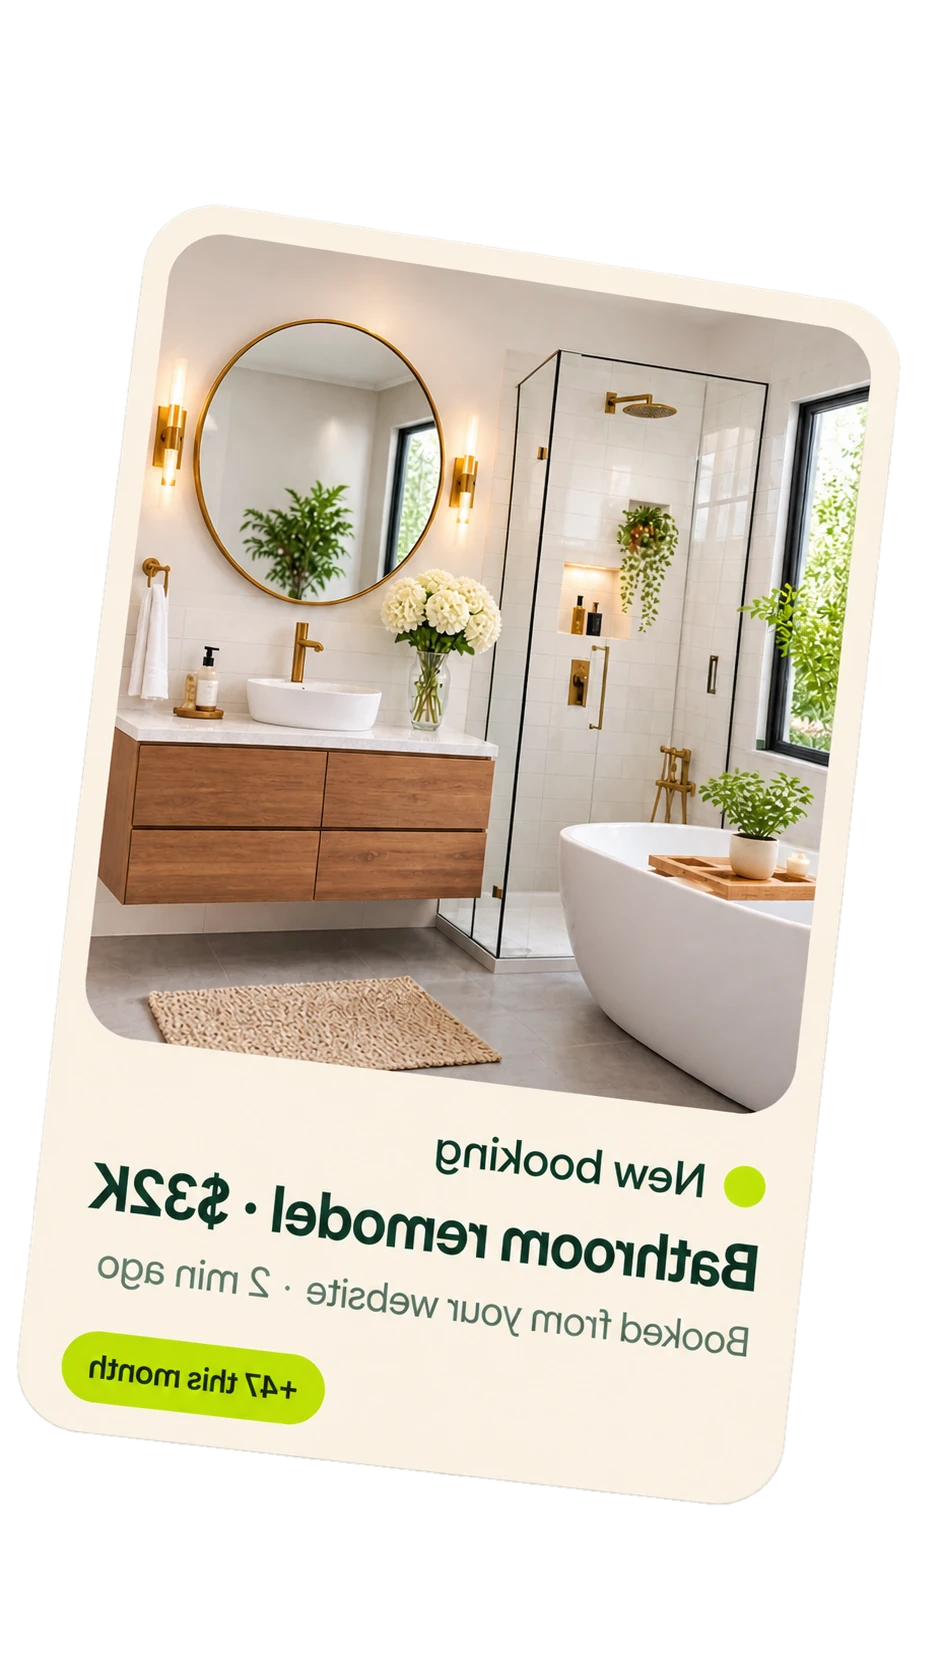
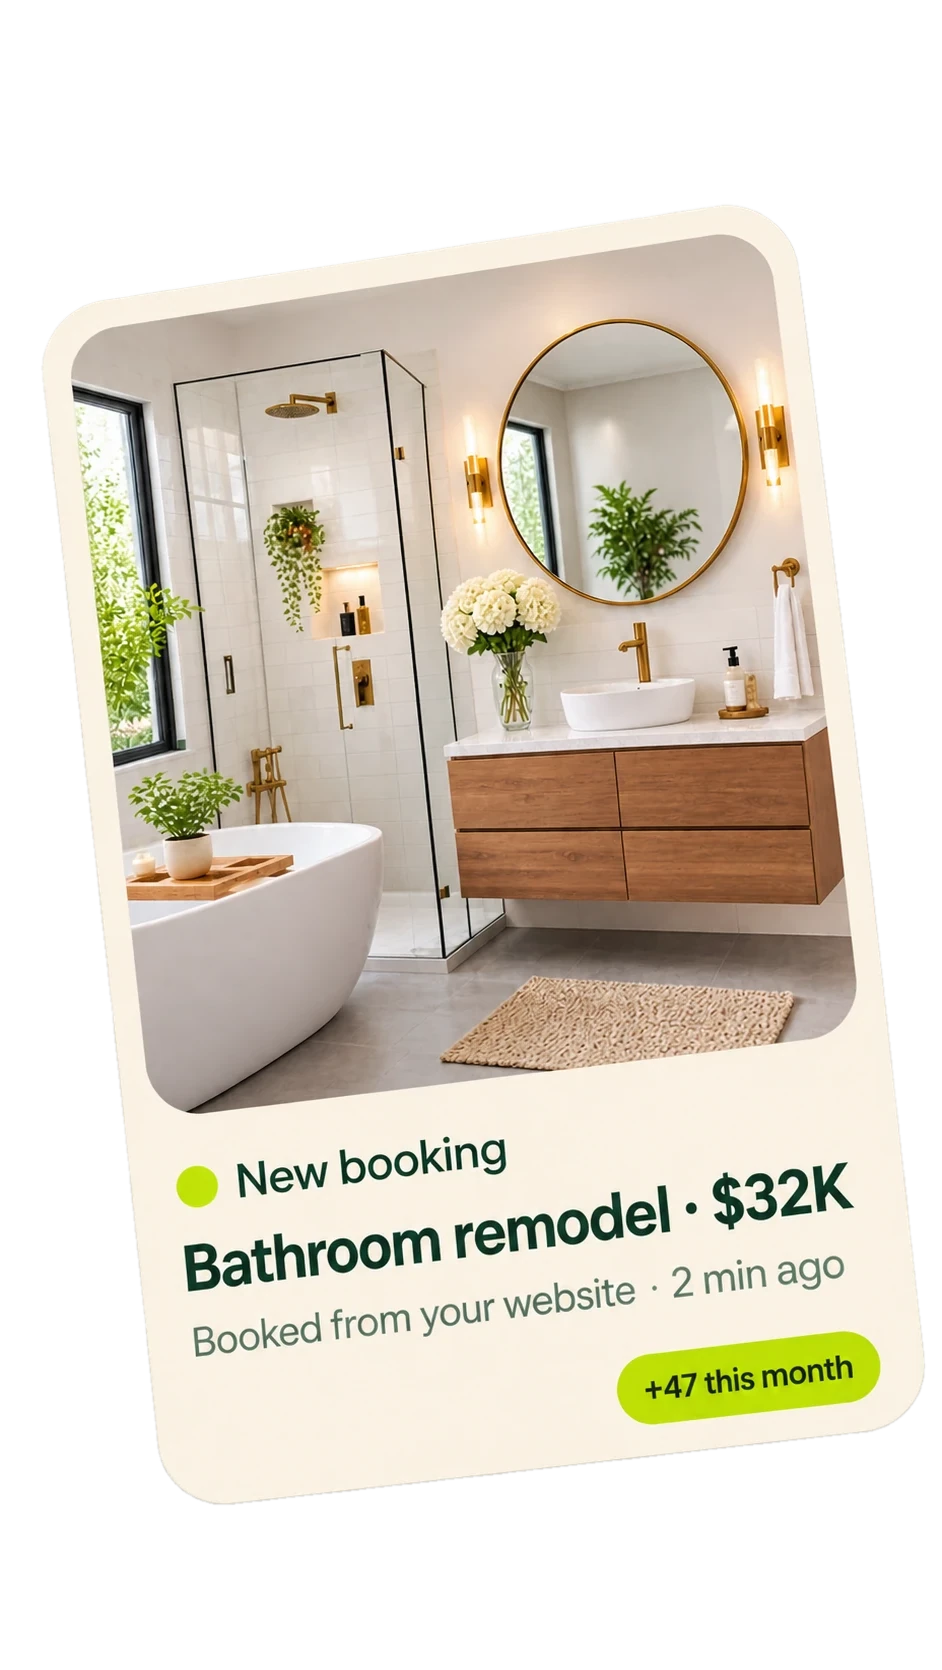
changes

diff --git a/assets/css/styles.css b/assets/css/styles.css
@@ -8548,7 +8548,7 @@ html body :is(.works-show-more, #industriesShowMore, .brand-card-btn-alt, .btn-o
 .hero-canvas .mockup-tall-right {
   right: -16%;
   animation: mockup-float 5.5s ease-in-out infinite 0.4s;
-  --r: 8deg;
+  --r: 20.5deg;
 }
 @media (min-width: 981px) {
   .hero-canvas .mockup-tall-left { left: -42%; }
@@ -10940,6 +10940,9 @@ html body .hero-canvas .mockup-tall img {
 }
 html body .hero-canvas .mockup-tall-right {
   margin-right: 3.3%;
+}
+html body .hero-canvas .mockup-tall-right img {
+  translate: -1.7% 0;
 }
 .cq-card {
   position: relative;
